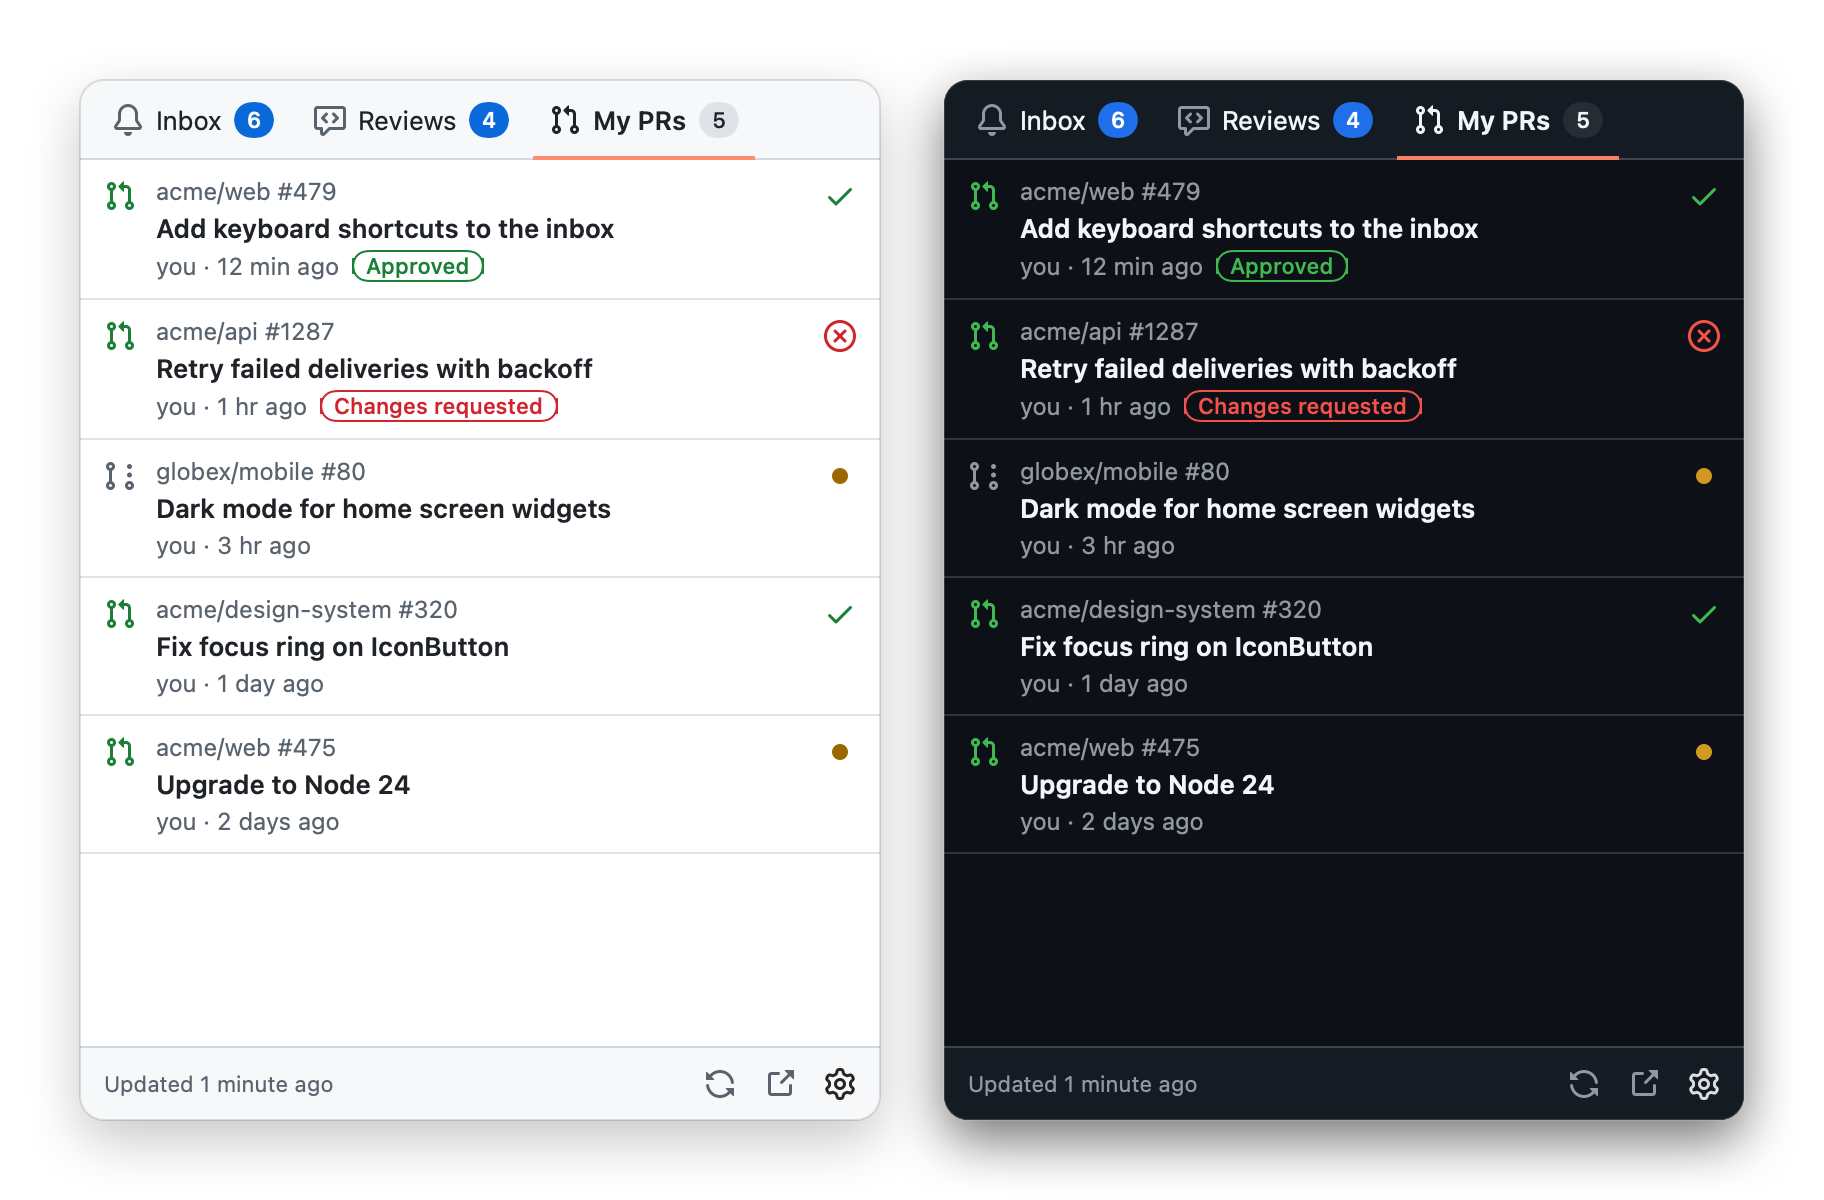
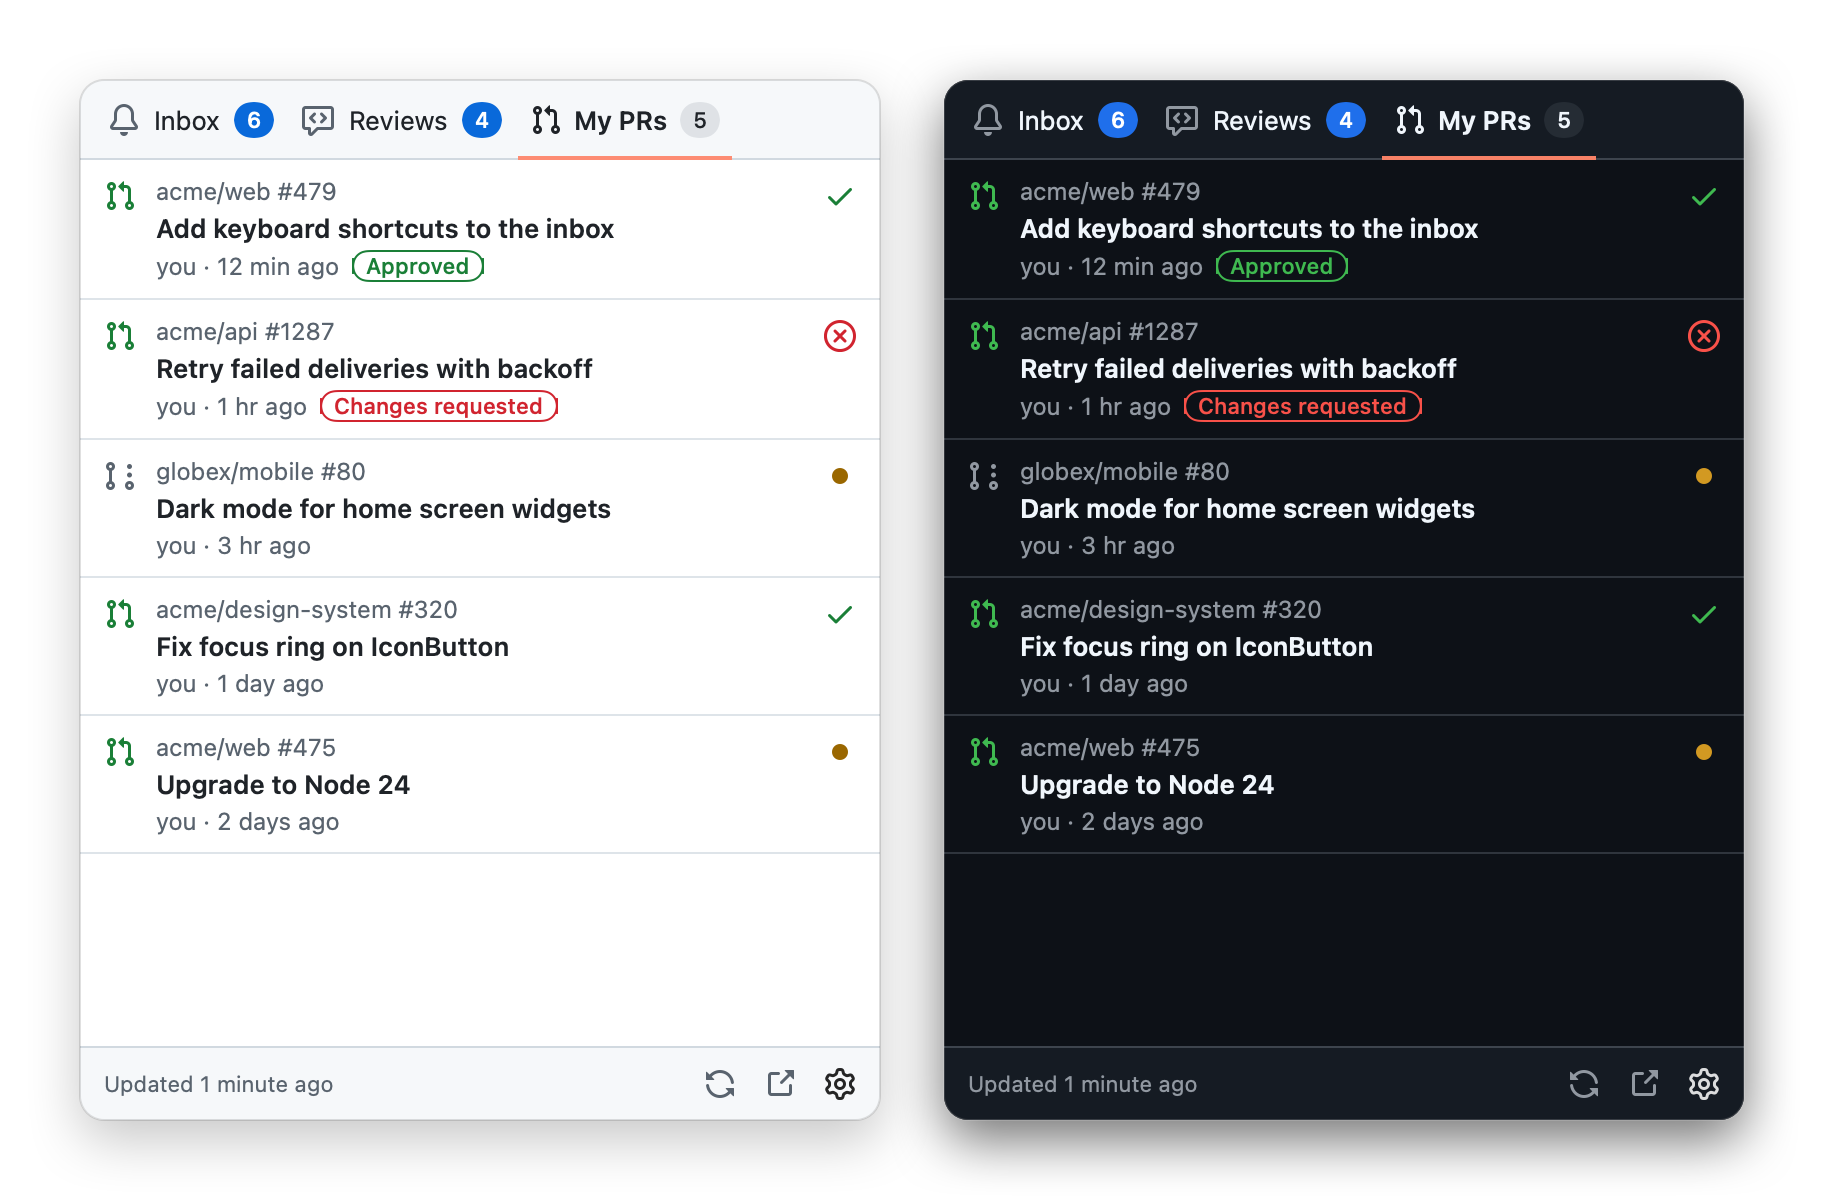
Steadier tab bar and centered popover
- Tabs reserve their semibold width, so selecting one no longer shifts the others
- When not all titles fit, only the selected tab shows its title (then icons only)
- Center the popover under the menu bar icon instead of aligning its left edge
- Re-rendered screenshots; version 0.0.5

diff --git a/GitHubBar/UI/PopoverView.swift b/GitHubBar/UI/PopoverView.swift
@@ -292,11 +292,19 @@ struct PopoverView: View {
 private struct TabBar: View {
     @Environment(AppState.self) private var state
 
+    /// Which tabs show their title, from most to least room needed.
+    private enum Titles { case all, selected, none }
+
+    private var selectedID: UUID? { state.selectedTabID ?? state.enabledTabs.first?.id }
+
     var body: some View {
+        // Shrinks step by step, like GitHub's tab bars on narrow screens: all titles, then only the
+        // selected tab's title, then icons only (scrollable as a last resort).
         ViewThatFits(in: .horizontal) {
-            row(showTitles: true)
+            row(.all)
+            row(.selected)
             ScrollView(.horizontal, showsIndicators: false) {
-                row(showTitles: false)
+                row(.none)
             }
             // Hug the row's height so the active underline sits on the bottom border.
             .fixedSize(horizontal: false, vertical: true)
@@ -310,14 +318,14 @@ private struct TabBar: View {
         .background(Primer.canvasSubtle)
     }
 
-    private func row(showTitles: Bool) -> some View {
-        HStack(spacing: 4) {
+    private func row(_ titles: Titles) -> some View {
+        HStack(spacing: 2) {
             ForEach(Array(state.enabledTabs.enumerated()), id: \.element.id) { index, tab in
                 TabBarItem(
                     tab: tab,
                     shortcut: index < 9 ? "⌘\(index + 1)" : nil,
-                    showTitle: showTitles,
-                    isSelected: tab.id == (state.selectedTabID ?? state.enabledTabs.first?.id),
+                    showTitle: titles == .all || (titles == .selected && tab.id == selectedID),
+                    isSelected: tab.id == selectedID,
                     count: state.badgeCount(for: tab),
                     needsAttention: state.needsAttention(tab)
                 ) {
@@ -326,6 +334,7 @@ private struct TabBar: View {
             }
         }
         .fixedSize(horizontal: true, vertical: false)
+        .animation(.snappy(duration: 0.2), value: selectedID)
     }
 }
 
@@ -349,16 +358,24 @@ private struct TabBarItem: View {
                 Octicon(name: tab.icon)
                     .foregroundStyle(isSelected ? Primer.fgDefault : Primer.fgMuted)
                 if showTitle {
+                    // Semibold text is wider; reserve its width for every tab so selecting one doesn't
+                    // shift the others (the same trick as Primer's UnderlineNav).
                     Text(tab.title)
-                        .font(.system(size: 13, weight: isSelected ? .semibold : .regular))
-                        .foregroundStyle(Primer.fgDefault)
+                        .font(.system(size: 13, weight: .semibold))
                         .lineLimit(1)
+                        .hidden()
+                        .overlay {
+                            Text(tab.title)
+                                .font(.system(size: 13, weight: isSelected ? .semibold : .regular))
+                                .foregroundStyle(Primer.fgDefault)
+                                .lineLimit(1)
+                        }
                 }
                 if count > 0 {
                     CounterLabel(count: count, emphasized: needsAttention)
                 }
             }
-            .padding(.horizontal, 8)
+            .padding(.horizontal, 6)
             .padding(.vertical, 5)
             .background(RoundedRectangle(cornerRadius: 6).fill(isHovering ? Primer.rowHover : .clear))
             .padding(.vertical, 6)
@@ -624,6 +641,13 @@ private struct WindowObserver: NSViewRepresentable {
             observers.append(center.addObserver(forName: NSWindow.didResignKeyNotification, object: window, queue: .main) { [weak self] _ in
                 self?.onResignKey?()
             })
+            // MenuBarExtra places the window whenever it opens; re-center it right away, before it's drawn.
+            for name in [NSWindow.didMoveNotification, NSWindow.didResizeNotification, NSWindow.didBecomeKeyNotification] {
+                observers.append(center.addObserver(forName: name, object: window, queue: .main) { _ in
+                    MainActor.assumeIsolated { StatusItem.centerPopoverUnderIcon() }
+                })
+            }
+            StatusItem.centerPopoverUnderIcon()
         }
     }
 }

diff --git a/GitHubBar/Core/StatusItem.swift b/GitHubBar/Core/StatusItem.swift
@@ -17,6 +17,25 @@ enum StatusItem {
         button.performClick(nil)
     }
 
+    /// `MenuBarExtra` aligns its window's left edge with the status item, like a menu. Center it under
+    /// the icon instead (like a popover), kept on screen near the edges as macOS does.
+    static func centerPopoverUnderIcon() {
+        #if DEBUG
+        // The screenshot renderer's off-screen windows must stay off-screen.
+        guard PreviewRenderer.requestedFolder == nil else { return }
+        #endif
+        guard let window = popoverWindow, let button = button(), let buttonWindow = button.window,
+              let screen = buttonWindow.screen ?? window.screen else { return }
+        let icon = buttonWindow.convertToScreen(button.convert(button.bounds, to: nil))
+        let visible = screen.visibleFrame
+        let margin: CGFloat = 8
+        var x = icon.midX - window.frame.width / 2
+        x = min(max(x, visible.minX + margin), visible.maxX - window.frame.width - margin)
+        // Only move when needed: setting the origin triggers another move notification.
+        guard abs(window.frame.origin.x - x) > 0.5 else { return }
+        window.setFrameOrigin(NSPoint(x: x, y: window.frame.origin.y))
+    }
+
     static func closePopover() {
         guard isPopoverOpen else { return }
         if let button = button() {
